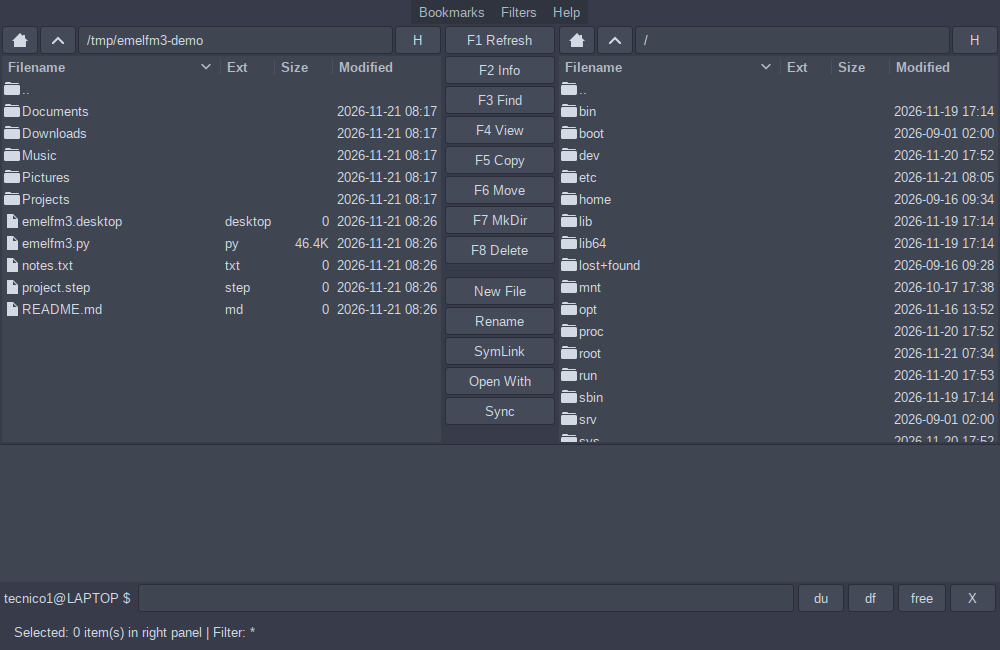
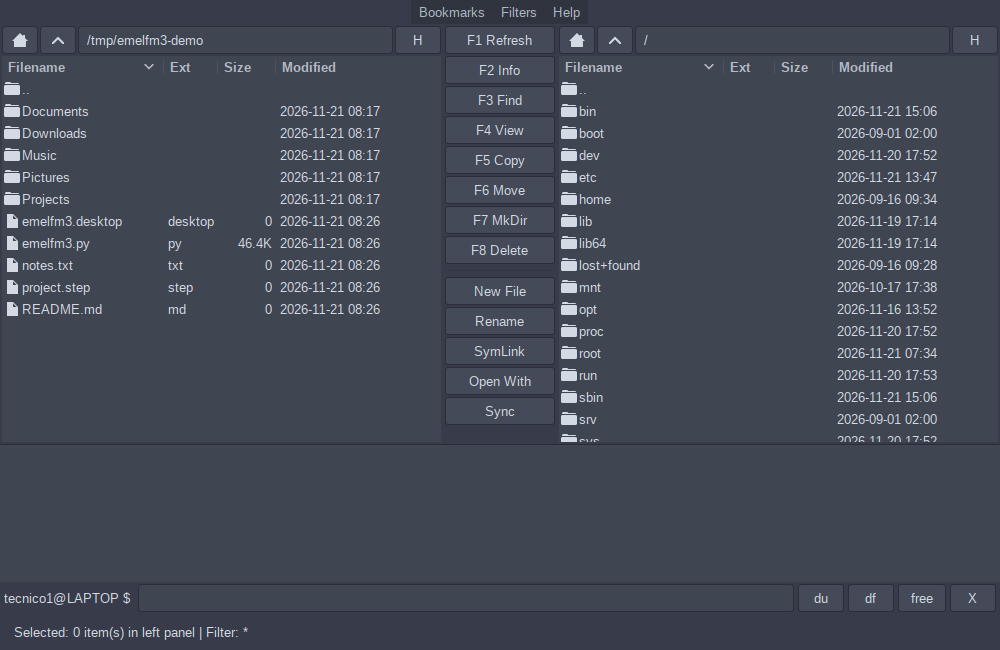
Add files via upload

diff --git a/emelfm3.py b/emelfm3.py
@@ -468,15 +468,15 @@ class EmelFM(Gtk.Window):
         # 1. Icon + Filename
         col_name = Gtk.TreeViewColumn("Filename")
         col_name.set_expand(True)
-        col_name.set_min_width(140)
-        col_name.set_clickable(True)
+        col_name.set_min_width(110)
+        col_name.set_clickable(True); col_name.set_resizable(True)
         col_name.set_sort_column_id(1)
         
         renderer_icon = Gtk.CellRendererPixbuf()
         col_name.pack_start(renderer_icon, False)
         col_name.add_attribute(renderer_icon, "icon-name", 0)
         
-        renderer_name = Gtk.CellRendererText()
+        renderer_name = Gtk.CellRendererText(); renderer_name.set_property("ellipsize", 3)
         renderer_name.set_property("ellipsize", Pango.EllipsizeMode.END)
         col_name.pack_start(renderer_name, True)
         col_name.add_attribute(renderer_name, "text", 1)
@@ -486,7 +486,7 @@ class EmelFM(Gtk.Window):
         # 2. Ext
         renderer_ext = Gtk.CellRendererText()
         col_ext = Gtk.TreeViewColumn("Ext", renderer_ext, text=2)
-        col_ext.set_clickable(True)
+        col_ext.set_clickable(True); col_ext.set_resizable(True)
         col_ext.set_sort_column_id(2)
         tree.append_column(col_ext)
         
@@ -494,14 +494,14 @@ class EmelFM(Gtk.Window):
         renderer_size = Gtk.CellRendererText()
         renderer_size.set_property("xalign", 1.0)
         col_size = Gtk.TreeViewColumn("Size", renderer_size, text=3)
-        col_size.set_clickable(True)
+        col_size.set_clickable(True); col_size.set_resizable(True)
         col_size.set_sort_column_id(3)
         tree.append_column(col_size)
         
         # 4. Modified
         renderer_mod = Gtk.CellRendererText()
         col_mod = Gtk.TreeViewColumn("Modified", renderer_mod, text=4)
-        col_mod.set_clickable(True)
+        col_mod.set_clickable(True); col_mod.set_resizable(True); col_mod.set_sizing(Gtk.TreeViewColumnSizing.FIXED); col_mod.set_fixed_width(165)
         col_mod.set_sort_column_id(4)
         tree.append_column(col_mod)
         
